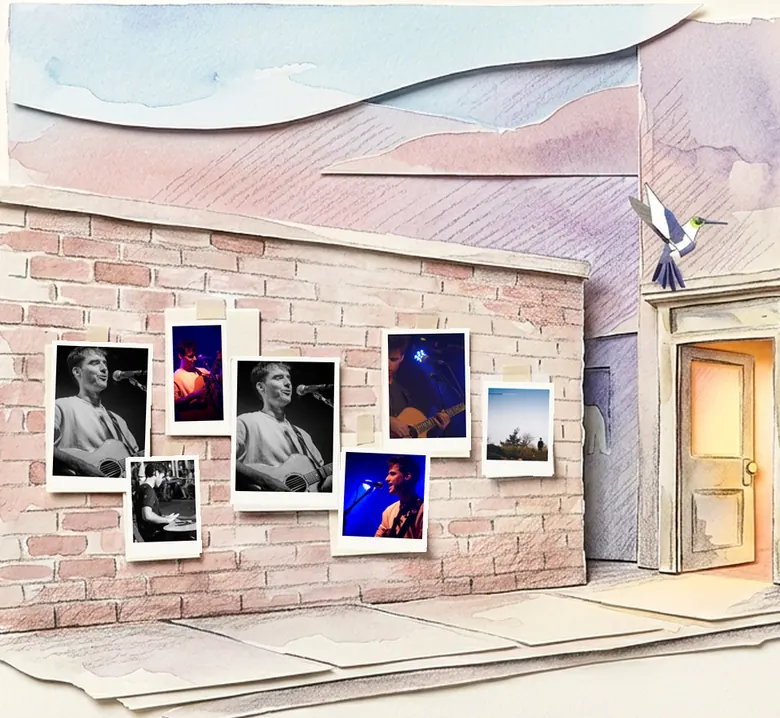
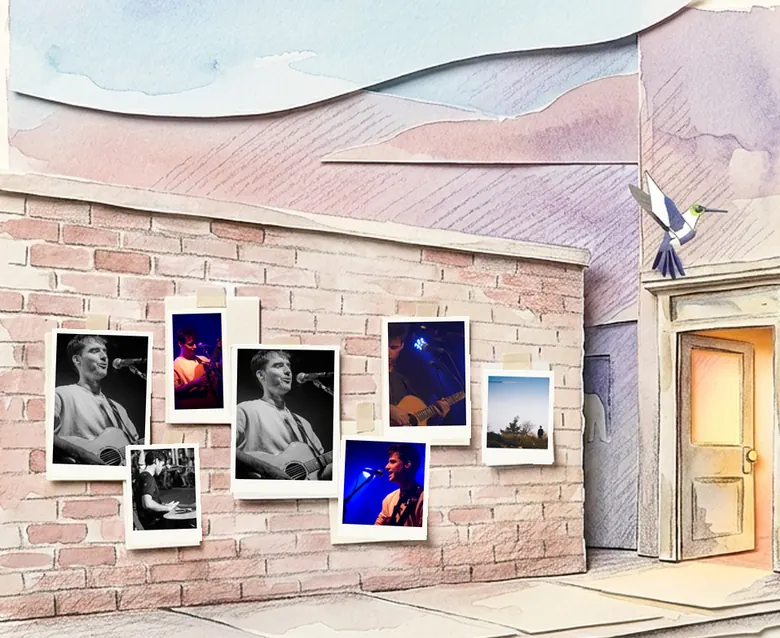
Venue: fix squeezed album card on phone, drop scroll cue, trim white strips
Claude-Session: https://claude.ai/code/session_01RtvS5V4MTS71N2RPp1urB8

diff --git a/index.html b/index.html
@@ -47,7 +47,7 @@
         
       </div></div>
       <div class="hero-type"><p class="name">Knaan Shabtay</p><h1>Teaching Paper Birds to Fly</h1><p class="album">New album out now · <button type="button" class="listen" data-rec="tpbtf">Listen</button></p></div>
-      <p class="cue">Scroll ↓</p>
+      
     </section>
     <!-- S2 Inside = Videos -->
     <section class="scene" id="s-videos" data-origin="45% 55%" aria-label="Videos">
@@ -96,8 +96,8 @@
 
   <!-- ============ phone: the same night as a vertical stack ============ -->
   <section class="mob msec" id="home" aria-label="Outside">
-    <div class="mart"><img src="assets/venue/mobile/m-A1-plate.webp" alt="Paper diorama of a small venue at dusk: a brick wall covered in posters of Knaan Shabtay and a glowing open door" width="780" height="718"><span class="count">01 / 05</span></div>
-    <div class="mcon"><p class="name">Knaan Shabtay</p><p class="sub">Teaching Paper Birds to Fly</p><p class="album">New album out now · <button type="button" class="listen" data-rec="tpbtf">Listen</button></p><p class="scroll">Scroll ↓</p></div>
+    <div class="mart"><img src="assets/venue/mobile/m-A1-plate.webp" alt="Paper diorama of a small venue at dusk: a brick wall covered in posters of Knaan Shabtay and a glowing open door" width="780" height="638"><span class="count">01 / 05</span></div>
+    <div class="mcon"><p class="name">Knaan Shabtay</p><p class="sub">Teaching Paper Birds to Fly</p><p class="album">New album out now · <button type="button" class="listen" data-rec="tpbtf">Listen</button></p></div>
   </section>
   <section class="mob msec" id="videos" aria-label="Videos">
     <div class="mart"><img src="assets/venue/mobile/m-A2-plate.webp" alt="Knaan Shabtay on a paper stage in front of a paper crowd" loading="lazy" width="780" height="670"><span class="count">02 / 05</span></div>
@@ -109,10 +109,10 @@
   </section>
   <section class="mob msec" id="music" aria-label="Music">
     <div class="mart"><img src="assets/venue/mobile/m-A4-plate.webp" alt="Paper merch table with a turntable and records" loading="lazy" width="780" height="640"><img class="mfg" data-l="m-A4-fg" src="assets/venue/mobile/m-A4-fg.webp" alt=""><span class="count">04 / 05</span></div>
-    <div class="mcon reveal"><h2 class="h1">Discography</h2><div class="spot" data-spot style="padding:0;background:none"></div><div class="rrows" data-rrows></div></div>
+    <div class="mcon reveal"><h2 class="h1">Discography</h2><div class="spot-slot" data-spot></div><div class="rrows" data-rrows></div></div>
   </section>
   <section class="mob msec" id="contact" aria-label="Contact">
-    <div class="mart"><img src="assets/venue/mobile/m-A5-plate.webp" alt="Paper box office with a lit window and a night street" loading="lazy" width="780" height="610"><img class="mfg" data-l="m-A5-fg" src="assets/venue/mobile/m-A5-fg.webp" alt=""><span class="count">05 / 05</span></div>
+    <div class="mart"><img src="assets/venue/mobile/m-A5-plate.webp" alt="Paper box office with a lit window and a night street" loading="lazy" width="780" height="557"><img class="mfg" data-l="m-A5-fg" src="assets/venue/mobile/m-A5-fg.webp" alt=""><span class="count">05 / 05</span></div>
     <div class="mcon reveal"><h2 class="h1">Contact</h2>
       <p style="font:600 .95rem/1 var(--sans);letter-spacing:.14em;text-transform:uppercase">Management &amp; Booking</p>
       <a class="mail" href="mailto:knaanshabtaymusic@gmail.com">knaanshabtaymusic@gmail.com</a>

diff --git a/js/venue.js b/js/venue.js
@@ -13,7 +13,7 @@
     'A1-fg': [1180, 339, 135, 154], 'A2-hero-still': [880, 140, 690, 579], 'A3-fg': [1060, 250, 132, 146], 'A3-board': [555, 413, 521, 298],
     'A4-fg': [1112, 281, 602, 600], 'A4-ffh': [481, 546, 380, 189], 'A4-lit': [739, 617, 387, 206],
     'A5-fg': [1415, 160, 115, 149], 'A5-card': [778, 460, 323, 244], 'A5-flyer': [305, 315, 296, 402],
-    'm-A3-fg': [484, 148, 78, 86], 'm-A4-fg': [456, 166, 356, 355], 'm-A5-fg': [672, 31, 74, 96],
+    'm-A3-fg': [484, 148, 78, 86], 'm-A4-fg': [456, 166, 356, 355], 'm-A5-fg': [672, 23, 74, 96],
   };
   document.querySelectorAll('[data-l]').forEach(el => {
     const b = L[el.dataset.l]; if (!b) return;
@@ -51,7 +51,7 @@
     tl.set({}, {}, 940); // pin the length to 940 units
     // S1 Outside: dolly toward the door; the bird flies to it; the title lifts away
     tl.fromTo(cam(s1), {scale: 1, x: 0, y: 0}, {scale: 1.18, x: '-6vw', y: '-2vh', duration: 100}, 0)
-      .to('#s-home .hero-type, #s-home .cue', {autoAlpha: 0, y: -40, duration: 40}, 0)
+      .to('#s-home .hero-type', {autoAlpha: 0, y: -40, duration: 40}, 0)
     // 1→2 through the door: keep zooming in, the stage is revealed from the doorway
       .to(cam(s1), {scale: 2.4, duration: 60, ease: 'power2.inOut'}, 100)
       .to(s1, {autoAlpha: 0, duration: 24}, 136)

diff --git a/css/venue.css b/css/venue.css
@@ -204,7 +204,7 @@ img{display:block;max-width:100%}
   .vrow b,.rrow b{display:block;font-weight:400;font-size:.95rem;margin-top:3px}
   .rrow small{display:block;font:500 9px/1 var(--mono);letter-spacing:.16em;text-transform:uppercase;color:var(--sky);margin-top:5px}
   .mcon .bitbox{border:1px solid var(--line);background:var(--card);padding:14px;font-size:16px}
-  .mcon .spot iframe{width:100%;height:152px;border:0;border-radius:12px}
+  .mcon .spot-slot iframe{width:100%;height:152px;border:0;border-radius:12px}
   .mail{font-weight:400;font-size:1.05rem;border-bottom:1.5px solid var(--ink);justify-self:start;padding-bottom:3px;word-break:break-all}
   .btn{display:flex;justify-content:center;gap:8px;border:1.5px solid var(--sky);color:var(--sky);font:500 11px/1 var(--sans);letter-spacing:.2em;text-transform:uppercase;padding:14px}
   .note{font:italic 400 1.05rem/1.2 var(--serif);color:var(--muted)}
